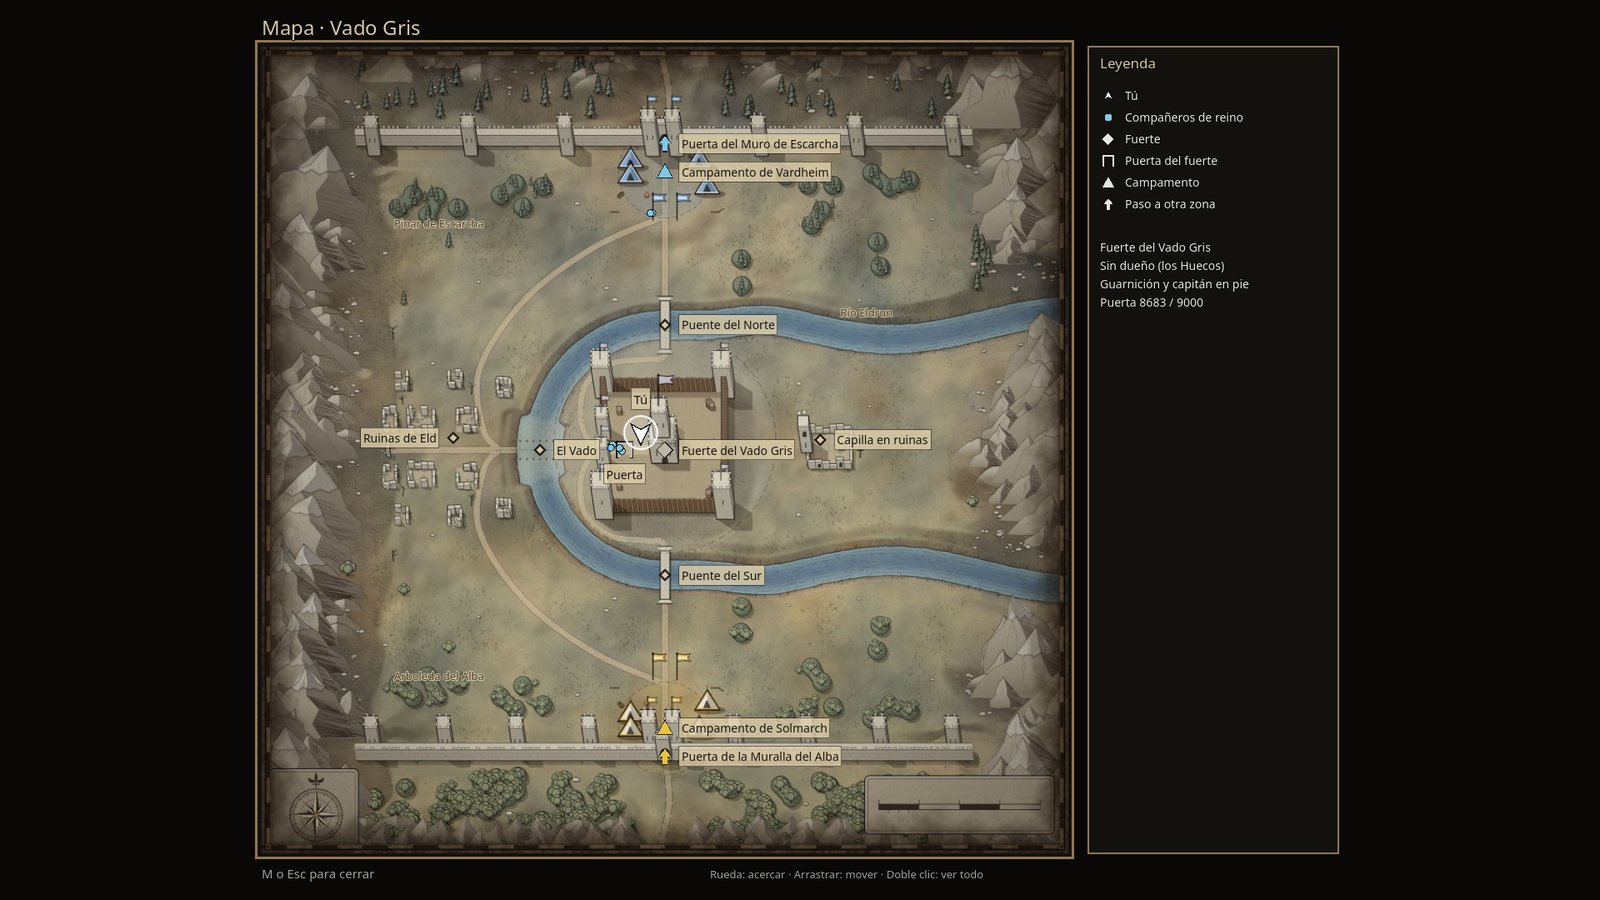
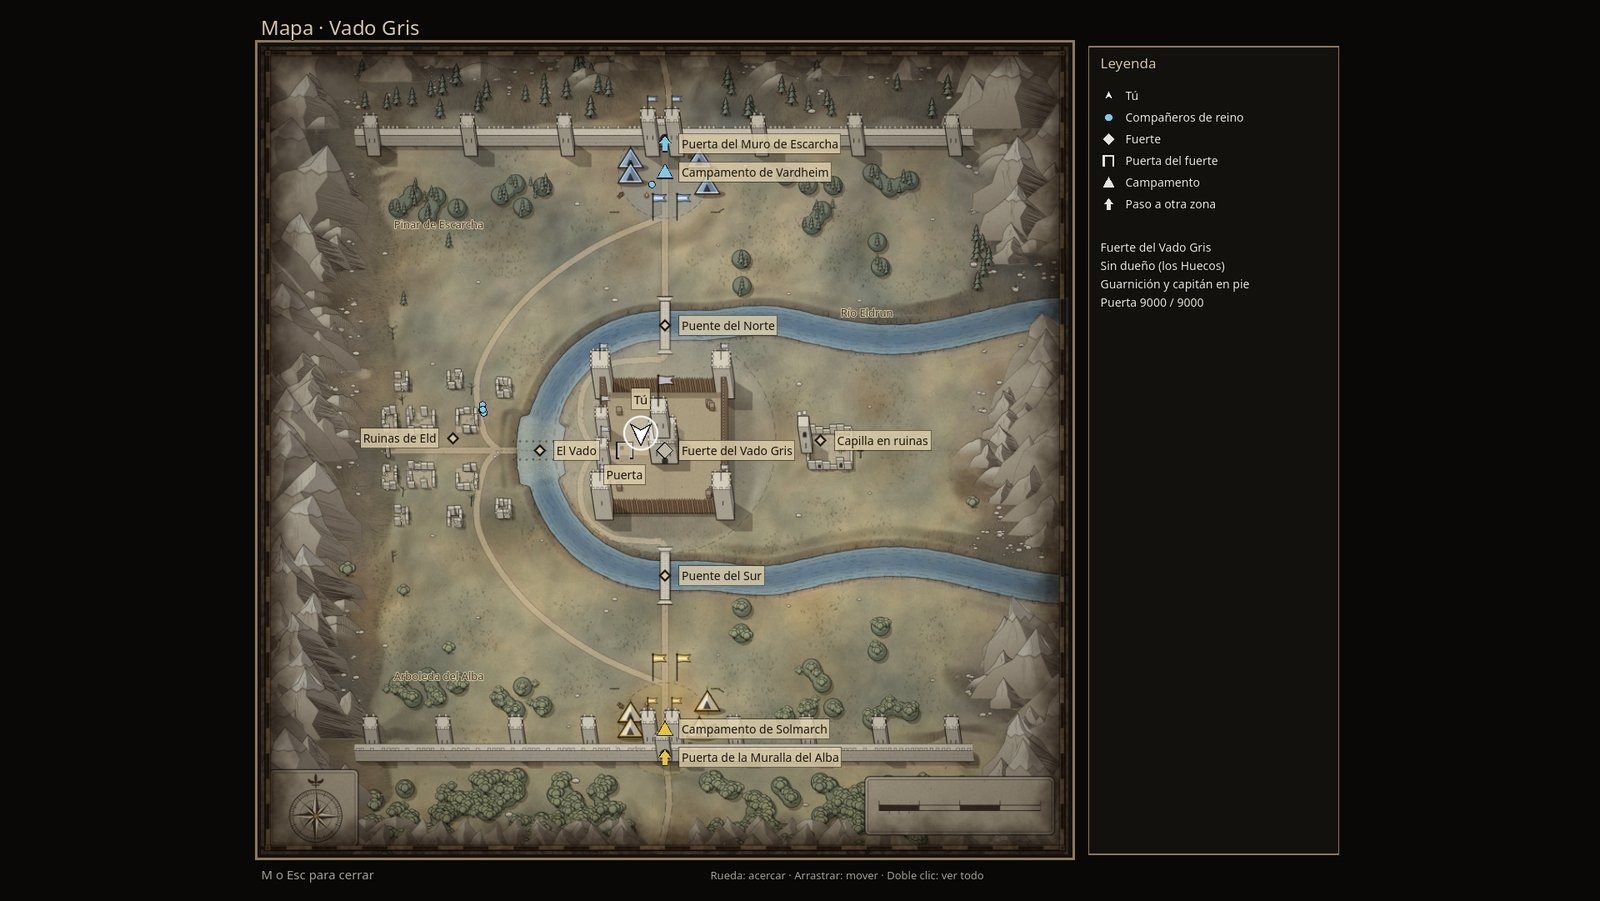
Refresh README screenshots without debug capsules and extend the war HUD no-overlap test
The hero and world images showed scale capsules; every README image except the swords is
retaken with the current HUD, keep and sky, at 1600 px and JPEG quality 85. The test now checks
the tallest fort panel against the band, boss bar and knocked-down notice at 1920x1080 and
1280x720.

diff --git a/README.md b/README.md
@@ -2,7 +2,7 @@
 
 **An open-source 3D medieval-fantasy MMORPG built with Godot 4.** A playable game with its own identity, and a reference architecture for authoritative-server action combat that you can study, fork or build on.
 
-![Eldmark: the Vado Gris fort on its hill, seen from the Vardheim gate](docs/screenshots/hero.jpg)
+![Eldmark: the Vado Gris fort, with its stone keep and palisade on the hill, and the Solmarch wall behind](docs/screenshots/hero.jpg)
 
 Three realms fight over the forts and castles of a central war zone. You pick a realm, level up inside its walls, and march out through its gate to take fortresses from the other two. Combat is third-person action in the style of New World: over-the-shoulder camera, crosshair aiming, no target lock, blocking and dodging. The server decides everything that matters; the client predicts what it can.
 
@@ -38,12 +38,12 @@ Not there yet, to be honest about it: the other two war-zone regions, siege weap
 
 | | |
 |---|---|
-| ![Fighting the garrison in the fort courtyard](docs/screenshots/combat.jpg) | ![A skirmish by the ford, with compass, fort panel, kill log, minimap and action bar](docs/screenshots/hud.jpg) |
-| Sword-and-shield fight against the fort garrison, with the Ford Captain's boss bar and a war notice | The HUD in a skirmish by the ford: compass, fort panel, kill log, damage numbers, minimap and action bar |
-| ![Solmarch announces an attack on the fort](docs/screenshots/fort_capture.jpg) | ![The M map window](docs/screenshots/map.jpg) |
-| Attacking the Vado Gris gate: war notice, gate health in the fort panel and the kill log | The **M** window: parchment map of the zone with place names, camps, bridges and the fort |
+| ![Fighting the garrison in the fort courtyard](docs/screenshots/combat.jpg) | ![A skirmish at the fort gate, with compass, fort panel, kill log, minimap and action bar](docs/screenshots/hud.jpg) |
+| Sword-and-shield fight against the fort garrison in the courtyard, with the Ford Captain's boss bar, damage numbers and an amber NPC attack telegraph on the ground | The HUD in a skirmish at the gate: compass, fort panel with the gate bar, kill log, damage numbers, minimap and action bar |
+| ![Vardheim captures the fort: the Ford Captain has fallen](docs/screenshots/fort_capture.jpg) | ![The M map window](docs/screenshots/map.jpg) |
+| The war notice banner sits below the fort panel, which shows the capture progress, the players in the circle and the gate health | The **M** window: parchment map of the zone with place names, camps, bridges and the fort |
 | ![The Vardheim wall and camp](docs/screenshots/world.jpg) | ![Character creation](docs/screenshots/character_creation.jpg) |
-| The Vardheim wall and camp, north end of the zone | Character creation (the interface is in Spanish for now) |
+| The Vardheim wall and camp, north end of the zone (snow patches on the Vardheim half) | Character creation (the interface is in Spanish for now) |
 
 The swords are original models, one base design and one variant per realm:
 
